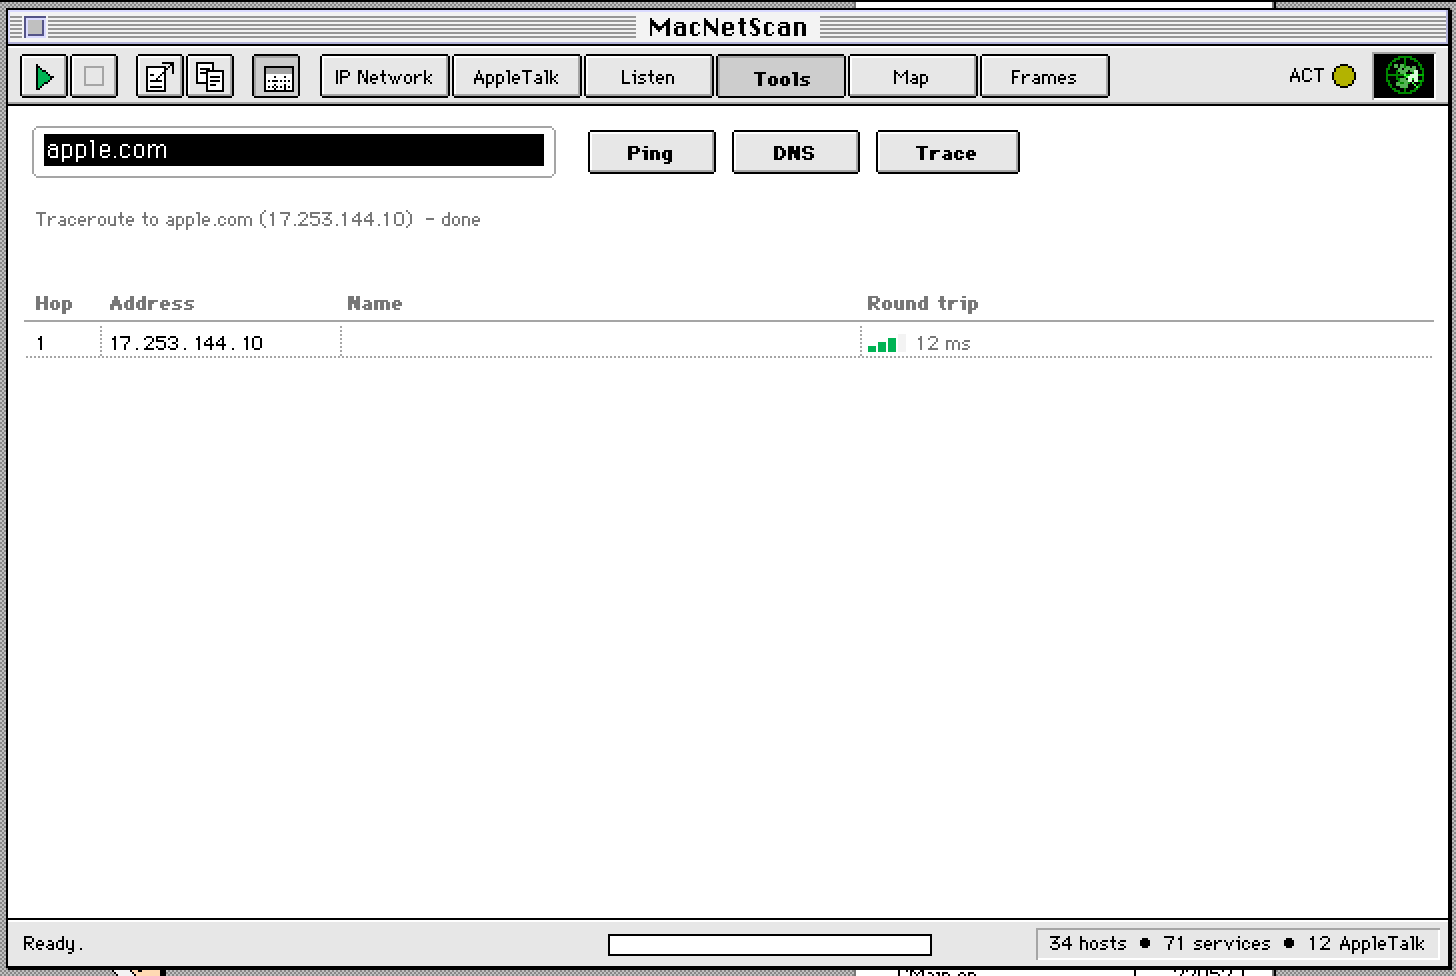
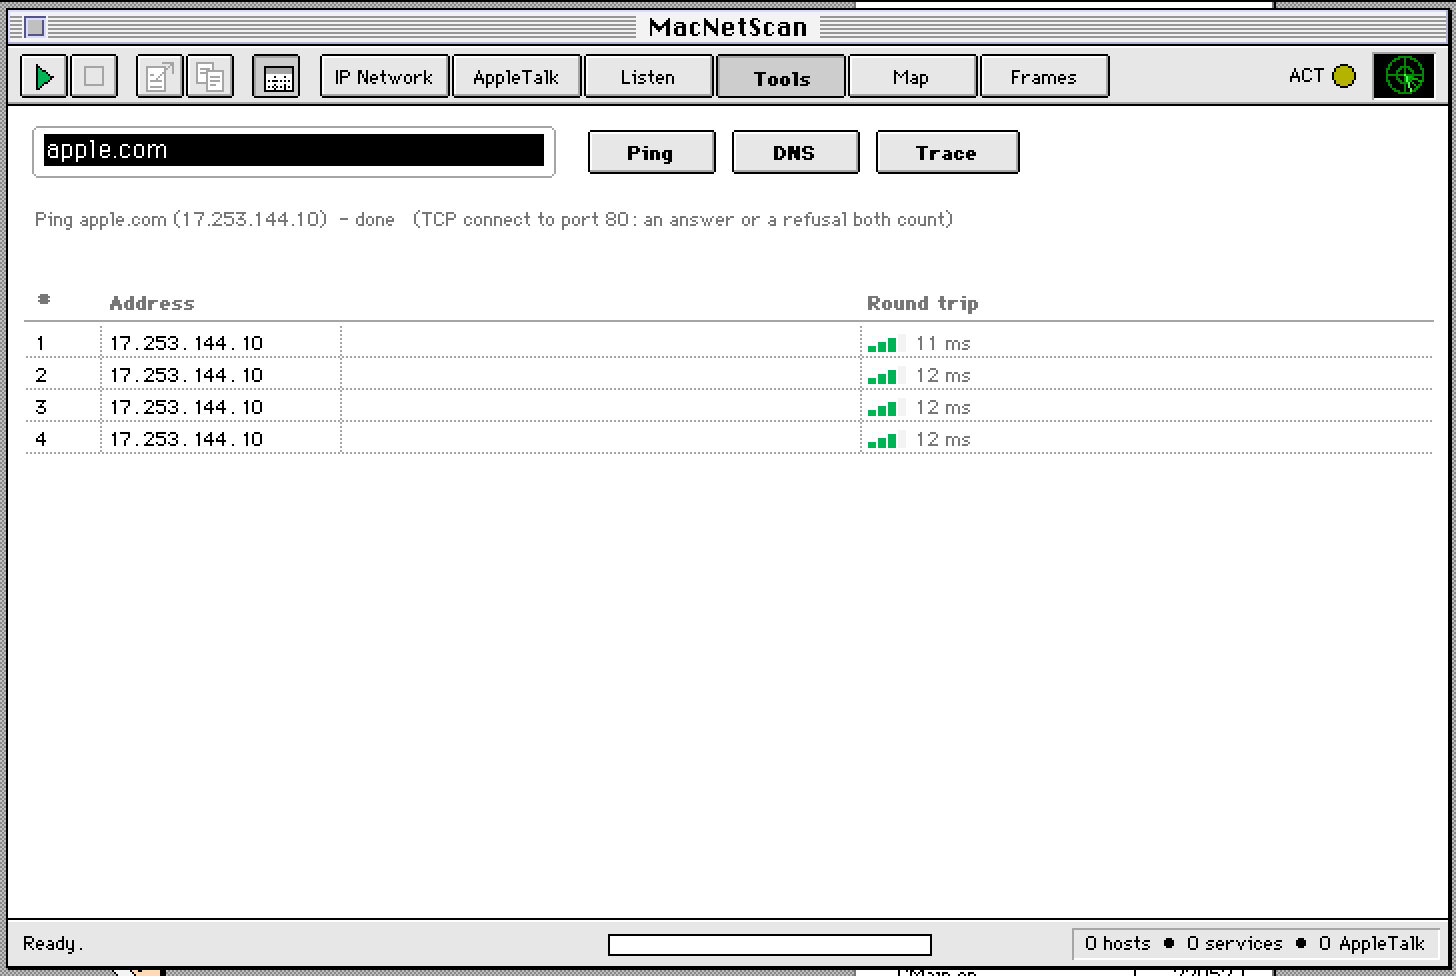
Tools: a lookup given up on no longer leaves DNS blocked
Traceroute names each hop with a reverse lookup and gives up after 2 s;
it left gTSvcBusy set, so every later Ping, DNS or Trace by name failed
with "DNS is not available." until MacNetScan quit. The same happened
after "Lookup timed out." and when a tool was stopped mid-lookup.

AbandonTSvc closes the internet services provider - which cancels the
request still pending in Open Transport - and the next lookup opens a
fresh one. Tested: Trace apple.com (hop left nameless), then DNS and
Ping, twice in a row.

The Tools screenshot now shows a ping.

diff --git a/netcore/netcore.c b/netcore/netcore.c
@@ -1254,6 +1254,17 @@ static Boolean OpenTSvc(void)
 	return true;
 }
 
+/* A lookup given up on (timed out, or its tool stopped): close the provider - that cancels the request still
+   pending in Open Transport - and open a fresh one on the next lookup. Only clearing gTSvcBusy would leave the
+   old request outstanding, and keeping it set made every later lookup fail with "DNS is not available." */
+static void AbandonTSvc(void)
+{
+	if (!gTSvcBusy) return;
+	gTSvcBusy = false;
+	gTSvcDone = false;
+	if (gTSvc) { OTCloseProvider(gTSvc); gTSvc = NULL; }
+}
+
 static void ClosePing(void)
 {
 	if (!gPingEp) return;
@@ -1273,7 +1284,7 @@ static void ToolBegin(short tool, const char *host)
 	if (ParseDotted(host, &gToolIP)) { gToolState = (tool == TOOL_DNS) ? NC_TOOL_RESOLVING : NC_TOOL_RUNNING; }
 	else gToolState = NC_TOOL_RESOLVING;
 	if (gToolState == NC_TOOL_RESOLVING) {
-		if (gTSvcBusy || !OpenTSvc()) { gToolState = NC_TOOL_FAILED; StrCopy(gToolMsg, "DNS is not available.", 256); return; }
+		if (!OpenTSvc()) { gToolState = NC_TOOL_FAILED; StrCopy(gToolMsg, "DNS is not available.", 256); return; }
 		OTMemzero(&gTHostInfo, sizeof(gTHostInfo));
 		gTSvcDone = false;
 		if (tool == TOOL_DNS && ParseDotted(host, &gToolIP)) {
@@ -1298,6 +1309,7 @@ void NC_ToolStop(void)
 {
 	gToolStop = true;
 	ClosePing();
+	AbandonTSvc();										/* a lookup still running is not wanted any more */
 	if (gRaw) { OTCloseProvider(gRaw); gRaw = NULL; }
 	if (gToolState == NC_TOOL_RESOLVING || gToolState == NC_TOOL_RUNNING) gToolState = NC_TOOL_DONE;
 }
@@ -1440,7 +1452,10 @@ short NC_ToolIdle(void)
 {
 	if (gToolState == NC_TOOL_RESOLVING) {
 		if (!gTSvcDone) {
-			if (TickCount() - gToolStart > 20 * TICKS_PER_SEC) { gToolState = NC_TOOL_FAILED; StrCopy(gToolMsg, "Lookup timed out.", 256); }
+			if (TickCount() - gToolStart > 20 * TICKS_PER_SEC) {
+				AbandonTSvc();
+				gToolState = NC_TOOL_FAILED; StrCopy(gToolMsg, "Lookup timed out.", 256);
+			}
 			return gToolState;
 		}
 		gTSvcBusy = false;
@@ -1507,7 +1522,7 @@ short NC_ToolIdle(void)
 				if (gTSvcDone) {
 					gTSvcBusy = false;
 					if (gTSvcResult == noErr && gNLines > 0) StrCopy(gLines[gNLines - 1].name, gTName, NC_NAMELEN);
-				}
+				} else AbandonTSvc();							/* the hop stays nameless; the next lookup starts fresh */
 				gStep = 0;
 				if (gToolCount == gToolSeq) gToolState = NC_TOOL_DONE;
 			}
